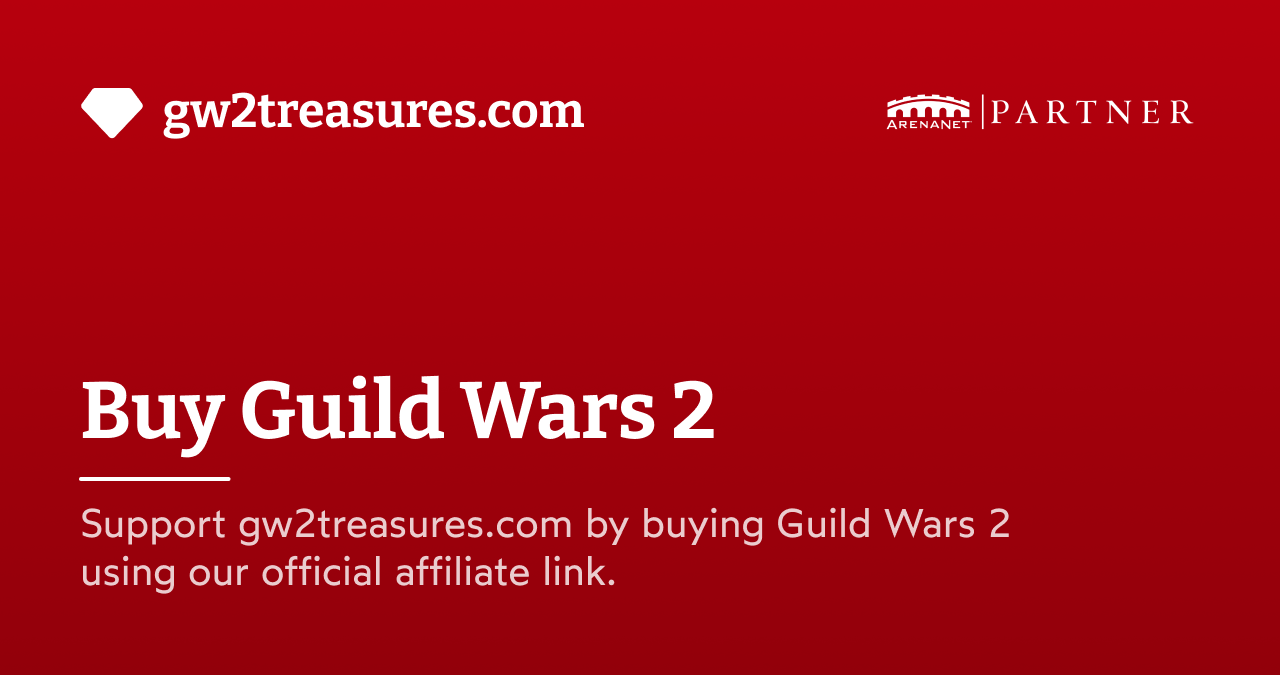
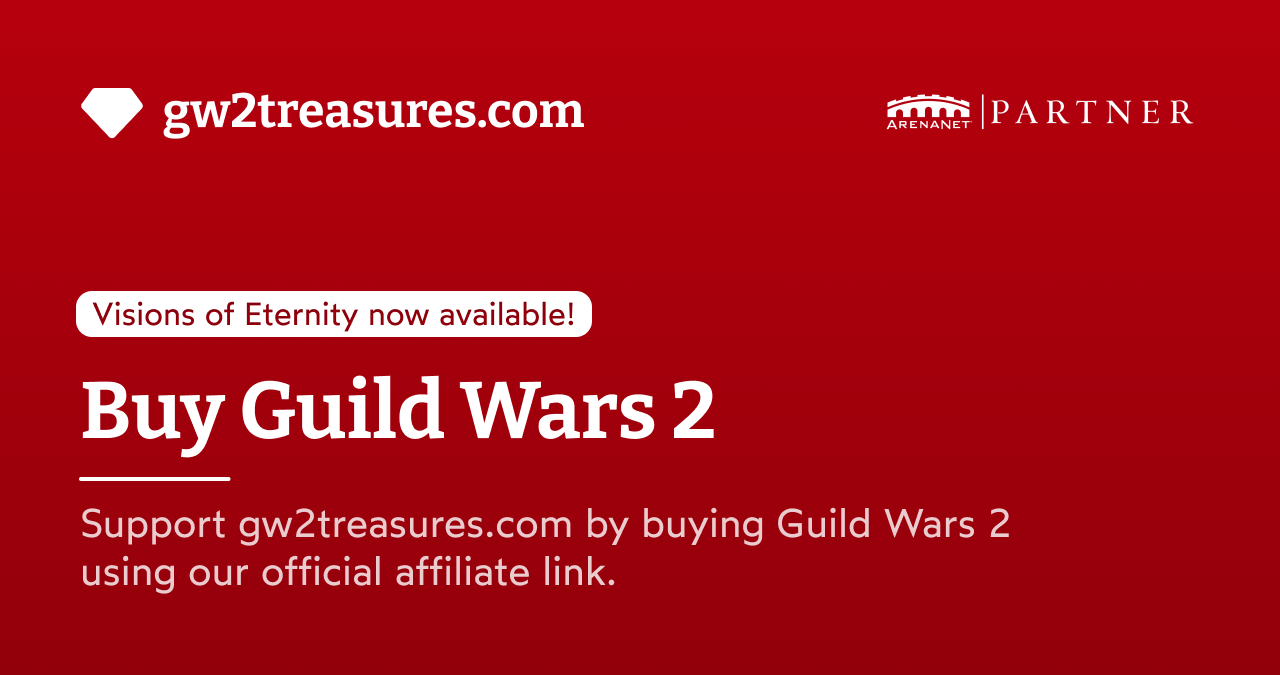
VoE is now available

Changed region(s): [[0.0625, 0.4044, 0.4688, 0.4978]]

diff --git a/apps/web/components/Layout/Layout.tsx b/apps/web/components/Layout/Layout.tsx
@@ -66,7 +66,7 @@ const Layout: FC<LayoutProps> = ({ children, language }) => {
           <b>The official Guild Wars 2 API will be disabled</b> from <FormatDate date={new Date('2025-10-24T17:00:00.000Z')}/> until <FormatDate date={new Date('2025-10-30T17:00:00.000Z')}/> to
           avoid spoilers during the launch of <b style={{ whiteSpace: 'nowrap' }}>Guild Wars 2: Visions of Eternity.</b><br/>
           <div style={{ fontSize: 15, opacity: .8 }}>New items, achievements, skills, and others will only be available after the API has been re-enabled. It will not be possible to access your account info (like inventories, achievements, ...) during this time.<br/></div>
-          <ExternalLink href={new URL('/buy-gw2', getBaseUrl()).toString()}>Preorder the new expansion via our affiliate link to support us!</ExternalLink>
+          The new expansion is now available, <ExternalLink href={new URL('/buy-gw2', getBaseUrl()).toString()}>buy it via our affiliate link to support us!</ExternalLink>
         </aside>
         {children}
         <footer className={styles.footer} data-nosnippet>

diff --git a/apps/web/app/[language]/(home)/page.tsx b/apps/web/app/[language]/(home)/page.tsx
@@ -32,7 +32,8 @@ async function HomePage() {
   const festival = getActiveFestival();
   const bonusEvent = getActiveBonusEvent();
 
-  const hero = festivalHero[festival?.type ?? 'default'] ?? festivalHero.default;
+  // const hero = festivalHero[festival?.type ?? 'default'] ?? festivalHero.default;
+  const hero = festivalHero.default;
 
   return (
     <HeroLayout color={hero.color} heroClassName={hero.className} hero={(
